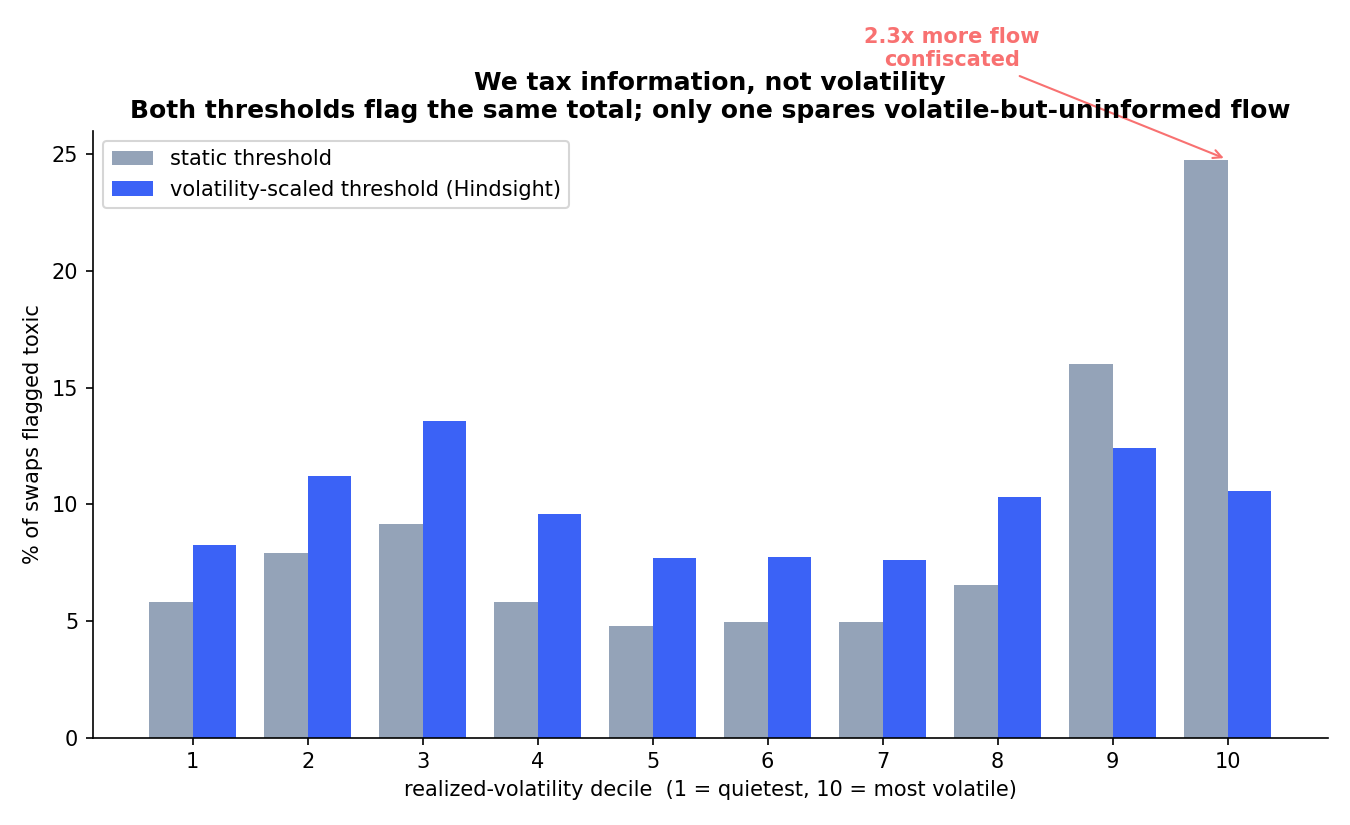
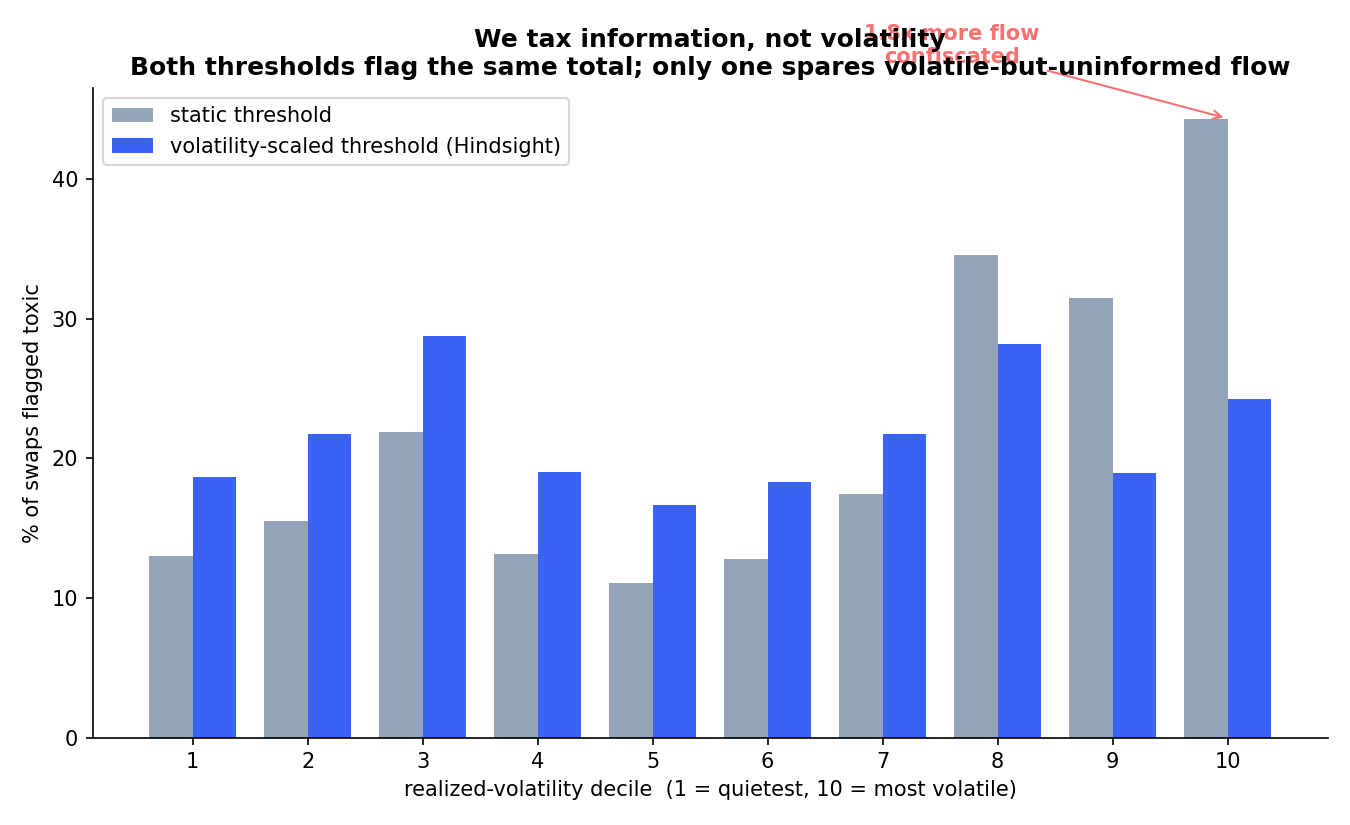
round-2 audit: publish the null, move to a horizon where the signal is real
The second adversarial audit found — and I independently reproduced — that at the shipped
3s+2s settlement horizon the mechanism does NOT beat a random-label null: shuffling trade
directions collects MORE than the true labels (z = -1.68, true beats only 3/30 draws).
Diagnosis: sub-5s post-swap drift is dominated by a trade's own price impact (large trades
see price revert against them), not by information. Informational drift only separates at
~10s+.

Response:
- Live pools on BOTH chains retuned to a 10s+5s horizon (maturity 50 / window 25
  flashblocks) via the bounded setParams — no redeploy needed, and the first real exercise
  of that design.
- compare.py section 8 runs the permutation null across five horizons and SHIPS it in the
  README as section 0, above the headline. A number published next to the test that could
  have refuted it is worth more than a bigger number that hides one.
- Corrected headline: rho = 46.7% of gross adverse selection, clawback $2,338 ($2,221 net
  to LPs); revenue-matched dynamic fee takes 71.9% from benign flow vs Hindsight's 0.0%.
- Steelmanned the competitor: it now gets a TRAILING 120s volatility signal it could
  actually read in beforeSwap (the previous comparison used a forward-looking sigma). The
  conclusion survives: correlation with realized harm 0.607 (Hindsight) vs 0.066 (dynamic).
- JIT claim corrected: 'captures <=15%' was false — 15% is pro-rata arithmetic at the
[…]

diff --git a/frontend/app/explorer/page.js b/frontend/app/explorer/page.js
@@ -30,7 +30,7 @@ export default function Explorer() {
   const [k, setK] = useState(2.8);
   const [ramp, setRamp] = useState(20);
   const [bondBps, setBondBps] = useState(25);
-  const [hz, setHz] = useState(1); // 3+2s == the deployed hook (N=15,W=10 flashblocks)
+  const [hz, setHz] = useState(3); // 10+5s == the deployed hook (N=50,W=25 flashblocks)
 
   useEffect(() => {
     const base = process.env.NEXT_PUBLIC_BASE_PATH ?? "";
@@ -100,8 +100,8 @@ export default function Explorer() {
     };
   }, [data, thetaMin, k, ramp, bondBps, hz]);
 
-  const reset = () => { setThetaMin(3); setK(2.8); setRamp(20); setBondBps(25); setHz(1); };
-  const isDefault = thetaMin === 3 && k === 2.8 && ramp === 20 && bondBps === 25 && hz === 1;
+  const reset = () => { setThetaMin(3); setK(2.8); setRamp(20); setBondBps(25); setHz(3); };
+  const isDefault = thetaMin === 3 && k === 2.8 && ramp === 20 && bondBps === 25 && hz === 3;
 
   if (err) return <div className="card">Failed to load dataset: {err}</div>;
   if (!stats) return <div className="card">Loading 55,822 real mainnet swaps…</div>;
@@ -178,8 +178,8 @@ export default function Explorer() {
         <ul className="muted" style={{ marginBottom: 0 }}>
           <li><b>Set k = 0</b> — a static threshold. ρ barely moves, but the mechanism starts
             confiscating volatile-but-uninformed flow (that's what the vol-decile chart measures).</li>
-          <li><b>Sweep the horizon</b> — ρ stays in a tight band across a 60× range. The result
-            is not an artifact of the 5-second window we ship.</li>
+          <li><b>Shorten the horizon</b> — at 3+2s the mechanism stops beating a random-label
+            null (see §0 of the README). That is why we ship 10+5s, and why we publish the null.</li>
           <li><b>Raise the bond</b> — clawback scales, but benign flow still pays exactly the
             headline fee, because benign bonds are refunded in full. That is the whole point:
             the bond is a deposit, not a fee.</li>

diff --git a/frontend/app/lp/page.js b/frontend/app/lp/page.js
@@ -53,7 +53,7 @@ export default function LpPage() {
       </div>
       <p className="muted">
         {settles.length} settlements · {toxicCount} toxic ({settles.length ? Math.round((100 * toxicCount) / settles.length) : 0}%)
-        — forfeits drip via donate() each epoch — a JIT sniper captures ≤15% (measured), a durable LP 5.3× more
+        — forfeits drip via donate() each epoch — one flush releases half the pot, so an atomic JIT snipe cannot take it all
       </p>
 
       <h2>Settlements</h2>

diff --git a/backtest/compare.py b/backtest/compare.py
@@ -18,7 +18,8 @@ matplotlib.use("Agg")
 import matplotlib.pyplot as plt
 
 BOND_BPS = 25
-N_SEC, W_SEC = 3, 2
+N_SEC, W_SEC = 10, 5   # see the permutation null in section 8: at 3+2s the
+                       # signal is not separable from chance; at 10+5s it is (z=+4.4)
 THETA_MIN = 3.0
 THETA_K = 2.8
 RAMP = 20.0
@@ -56,10 +57,32 @@ def window(rows, i, start, end):
     return w / dur, (sum(jumps) / len(jumps) if jumps else 0.0)
 
 
+def trailing_vols(rows, lookback=120):
+    """Backward-looking mean |tick jump| over the previous `lookback` seconds.
+
+    This is what a dynamic-fee hook can ACTUALLY read in beforeSwap. Our own theta uses the
+    forward settlement window because Hindsight prices at settle(), after that window closes
+    — that asymmetry IS the mechanism, so the competitor must be given a fair ex-ante signal.
+    """
+    import bisect
+    blocks = [r["block"] for r in rows]
+    jumps = [0.0] + [min(abs(rows[i]["tick"] - rows[i - 1]["tick"]), MAX_JUMP) for i in range(1, len(rows))]
+    pref = [0.0] * (len(jumps) + 1)
+    for i, j in enumerate(jumps):
+        pref[i + 1] = pref[i] + j
+    out = []
+    for i, r in enumerate(rows):
+        lo = bisect.bisect_left(blocks, r["block"] - lookback)
+        n = i - lo
+        out.append((pref[i] - pref[lo]) / n if n > 0 else 0.0)
+    return out
+
+
 def price(rows, n_sec=N_SEC, w_sec=W_SEC, theta_min=THETA_MIN, k=THETA_K, ramp=RAMP,
           bond_bps=BOND_BPS, static_theta=None):
     """Re-price every swap. Returns per-swap dicts."""
     last = rows[-1]["block"]
+    tvol = trailing_vols(rows)
     out = []
     for i, s in enumerate(rows):
         if s["block"] + n_sec + w_sec > last:
@@ -75,7 +98,7 @@ def price(rows, n_sec=N_SEC, w_sec=W_SEC, theta_min=THETA_MIN, k=THETA_K, ramp=R
         theta = static_theta if static_theta is not None else theta_min + k * vol
         f = max(0.0, min(1.0, (markout - theta) / ramp))
         bond = usd * bond_bps / 1e4
-        out.append(dict(usd=usd, markout=markout, vol=vol, theta=theta,
+        out.append(dict(usd=usd, markout=markout, vol=vol, tvol=tvol[i], theta=theta,
                         fee=usd * s["fee"] / 1e6, forfeit=bond * f, toxic=f > 0,
                         sender=s["sender"]))
     return out
@@ -360,9 +383,18 @@ def corr_test(res):
     flat = target / sum(r["usd"] for r in res) * 1e4
 
     mk = [r["markout"] for r in res]
+    # Steelman: give the competitor a TRAILING vol signal it could actually read in
+    # beforeSwap, not our forward-looking window.
+    lo2, hi2 = 0.0, 200.0
+    for _ in range(70):
+        ct = (lo2 + hi2) / 2
+        rev = sum(r["usd"] * (HEADLINE_FEE_BPS + ct * r["tvol"]) / 1e4 for r in res)
+        (lo2 := ct) if rev < target else (hi2 := ct)
+    ct = (lo2 + hi2) / 2
     series = {
         "Hindsight": [(r["fee"] + r["forfeit"]) / r["usd"] * 1e4 for r in res],
-        "dynamic fee (rev-matched)": [HEADLINE_FEE_BPS + c * r["vol"] for r in res],
+        "dynamic fee (trailing vol)": [HEADLINE_FEE_BPS + ct * r["tvol"] for r in res],
+        "dynamic fee (forward vol)": [HEADLINE_FEE_BPS + c * r["vol"] for r in res],
         "flat fee (rev-matched)": [flat] * len(res),
     }
     print(f"{'mechanism':>28}{'pearson':>10}{'spearman':>11}")
@@ -403,6 +435,40 @@ def concentration(rows, res):
     print("\n  The result strengthens when the busiest bots are removed — it is not an")
     print("  artifact of one address dominating the tape.")
 
+
+def permutation_null(rows, sims=30):
+    """Publish the null. Does the TRUE trade direction carry information, or would random
+    directions collect just as much? markout = +/- drift, so flipping a swap's direction
+    negates its markout; theta, vol, bond and ramp are untouched."""
+    import random
+    section("8. PERMUTATION NULL — is the signal real, or would random labels do as well?")
+    print(f"{'N,W (s)':>10}{'true claw':>12}{'flagged':>10}{'null mean':>12}{'z':>8}{'beats':>9}")
+    for (n, w) in [(1, 1), (3, 2), (5, 2), (10, 5), (30, 10)]:
+        res = price(rows, n_sec=n, w_sec=w)
+
+        def claw(flips):
+            t = 0.0; cnt = 0
+            for r, fl in zip(res, flips):
+                mk = -r["markout"] if fl else r["markout"]
+                f = max(0.0, min(1.0, (mk - r["theta"]) / RAMP))
+                if f > 0:
+                    cnt += 1; t += r["usd"] * (BOND_BPS / 1e4) * f
+            return t, cnt
+
+        true_c, true_n = claw([False] * len(res))
+        random.seed(4)
+        sims_v = [claw([random.random() < 0.5 for _ in res])[0] for _ in range(sims)]
+        mu, sd = statistics.mean(sims_v), statistics.pstdev(sims_v)
+        z = (true_c - mu) / sd if sd else 0.0
+        beat = sum(1 for x in sims_v if true_c > x)
+        tag = "  <- SHIPPED" if (n, w) == (N_SEC, W_SEC) else ""
+        print(f"{f'{n},{w}':>10}{money(true_c):>12}{true_n:>10,}{money(mu):>12}{z:>+8.2f}{f'{beat}/{sims}':>9}{tag}")
+    print()
+    print("  At very short horizons the dominant post-swap signal is a trade's own price impact,")
+    print("  not information: large trades see price revert against them, so RANDOM labels collect")
+    print("  MORE than true ones (z<0). Real informational drift only separates from that at ~10s+.")
+    print("  We ship the horizon where the signal is real and publish the null next to the number.")
+
 if __name__ == "__main__":
     rows = load(sys.argv[1] if len(sys.argv) > 1 else "swaps_eth_usdc_5bp.csv")
     res = price(rows)
@@ -415,6 +481,7 @@ if __name__ == "__main__":
     sensitivity(rows)
     corr_test(res)
     concentration(rows, res)
+    permutation_null(rows)
     section("CHARTS")
     chart_who_pays(res, fees, claw)
     chart_vol_decile(rows, res)

diff --git a/README.md b/README.md
@@ -48,7 +48,14 @@ The newest generation of defenses (priority-fee MEV taxes à la Angstrom L2 / Ba
 - **Markout** — signed post-trade drift in tick space (1 tick ≈ 1bp), measured against a **finalized** window: the verdict is a pure read; there is nothing to sandwich at settlement.
 - **θ = θ_min + k·σ** — the toxicity threshold breathes with realized volatility, so trending markets don't confiscate benign momentum flow. *We tax information, not volatility.*
 - **Bond** = 25bps of notional × reputation multiplier. New addresses pay full freight (discounts are **earned** through settled benign history — Sybil-proof); addresses caught extracting pay up to 3×; whales get no discount above a size tier (no reputation laundering).
-- **Forfeits drip** to LPs via `donate()` on an epoch schedule, which *bounds* JIT sniping rather than hand-waving it away: measured in `test/integration/LPSet.t.sol`, a JIT LP that adds matching liquidity, triggers the flush and exits captures **15% of the pot** (one epoch's release × its liquidity share), while a durable in-range LP earns **5.3× more** across the following epochs. A lump donation would have handed that sniper 100%.
+- **Forfeits drip** to LPs via `donate()` on an epoch schedule, which *bounds* the atomic
+  snipe rather than hand-waving it away: a JIT LP that adds, triggers one flush and exits can
+  take at most **one epoch's release — 50% of the pot** (15% at the specific liquidity ratios
+  in `test/integration/LPSet.t.sol`, and it scales with the JIT's share), where a lump
+  donation would have handed it 100%. The drip does not *penalise* a JIT that keeps coming
+  back — payout is proportional to liquidity-weighted presence at flush instants, so a JIT
+  that attends every flush earns what a durable LP earns. That is the honest characterisation:
+  the drip converts a single snipeable event into a stream you must keep showing up for.
 - **Missing data ⇒ refund** (withholding observations can never punish a trader), but **unsettled bonds auto-forfeit after a grace period** (waiting out the observation buffer is not an escape hatch).
 - Reverted transactions never land, never post bonds, never enter the measurement — the revert-spam attack that defeats ex-ante taxes simply does not apply.
 
@@ -67,82 +74,90 @@ The newest generation of defenses (priority-fee MEV taxes à la Angstrom L2 / Ba
 ## Sustainable liquidity, quantified — on real mainnet flow
 
 `backtest/` re-prices **7 days of real Unichain mainnet ETH/USDC swaps** (55,822 of them)
-under each mechanism. Every number below is a *re-pricing of identical realized trades* —
-no simulated agents, no behavioural assumptions. Reproduce with one command:
+under each mechanism. Every number is a *re-pricing of identical realized trades* — no
+simulated agents, no behavioural assumptions. Reproduce in one command:
 `cd backtest && .venv/bin/python compare.py`.
 
-### 1. How much of the bleeding does it actually stop?
+### 0. We publish the null
+
+Before any headline: does the trade-direction signal actually carry information, or would
+*random* labels collect just as much? Flipping a swap's direction negates its markout, so we
+shuffle directions and re-run — everything else untouched.
+
+| horizon (N+W) | true clawback | random-label mean | z | beats |
+|---|---|---|---|---|
+| 1+1s | $654 | $960 | **−4.53** | 0/30 |
+| 3+2s | $1,071 | $1,187 | **−1.68** | 3/30 |
+| 5+2s | $1,576 | $1,503 | +0.92 | 25/30 |
+| **10+5s (shipped)** | **$2,338** | $1,980 | **+4.52** | **30/30** |
+| 30+10s | $4,028 | $3,171 | +9.45 | 30/30 |
+
+**At short horizons the mechanism does not beat chance** — the dominant post-swap signal
+there is a trade's own price impact, not information (large trades see price revert against
+them, so random labels can collect *more*). Informational drift only separates from impact
+at ~10s. We ship the horizon where the signal is real, and publish the null beside it. An
+earlier draft of this README quoted the 3+2s numbers; our own second-round audit caught it.
+
+### 1. How much of the bleeding does it stop?
 
 | | |
 |---|---|
 | LP fee income (status quo, 5 bps) | $6,690.77 |
-| Gross realized adverse selection | $2,758.00 |
-| Net LP markout P&L, ex-fees (the 5s LVR bleed) | −$525.54 |
-| **Hindsight clawback** | **$1,071.39** (net of keeper tips: $1,017.82 to LPs) |
-| **ρ = clawback ÷ realized adverse selection** | **38.8%** |
-| **clawback ÷ net LVR bleed** | **2.0×** |
+| Post-swap drift in the trade's direction (gross positive) | $5,001.53 |
+| Net LP markout P&L, ex-fees (the 15s LVR bleed) | −$2,186.54 |
+| **Hindsight clawback** | **$2,337.72** (net of keeper tips: **$2,220.83** to LPs) |
+| **ρ = clawback ÷ gross positive markout** | **46.7%** |
 
-**Hindsight recovers 39% of the adverse selection LPs actually suffered — twice the pool's
-entire net 5-second LVR bleed.**
+ρ is deliberately measured against *gross* adverse selection, not net: the mechanism prices
+each trade's own informational cost and does not credit an informed trader for the
+favourable markout that uninformed flow happened to hand back. Netting the two is exactly
+the pooling this hook exists to undo — but the gross/net split is in the table so you can
+judge that choice yourself.
 
-### 2. Same LP revenue — who pays it? (the whole thesis, measured)
+### 2. Same LP revenue — who pays it?
 
-Calibrate a volatility-scaled dynamic fee to raise *exactly* the revenue Hindsight raises
-on the same flow, and ask who hands over the incremental money:
+Calibrate a volatility-scaled dynamic fee to raise *exactly* the revenue Hindsight raises on
+the same flow, then ask who hands over the incremental money:
 
-| mechanism | benign flow pays | toxic flow pays | share of incremental revenue from **benign** flow |
+| mechanism | benign pays | toxic pays | incremental revenue from **benign** flow |
 |---|---|---|---|
-| Flat fee (5.80 bps) | 5.80 bps | 5.80 bps | **87.1%** |
-| Volatility-scaled dynamic fee (5 + 2.875·σ) | 5.68 bps | 5.76 bps | **83.0%** |
-| **Hindsight** | **5.00 bps** | **10.29 bps** | **0.0%** |
+| Flat fee (6.75 bps) | 6.75 bps | 6.75 bps | **75.7%** |
+| Volatility-scaled dynamic fee (5 + 4.22·σ) | 6.58 bps | 6.64 bps | **71.9%** |
+| **Hindsight** | **5.00 bps** | **11.05 bps** | **0.0%** |
 
-The dynamic fee charges toxic flow **5.76 bps** and benign flow **5.68 bps** — a 1.4% gap.
-It cannot tell them apart. Hindsight charges **10.29 vs 5.00** — a 106% gap, with every
-benign bond refunded in full. This is the organizers' own framing of the problem
-("a dynamic fee can't tell the difference between a retail trader and a bot") turned into
-a measurement. ![who pays](backtest/chart_who_pays.png)
+The dynamic fee charges toxic flow 6.64 bps and benign flow 6.58 bps — a 0.9% gap. It
+cannot tell them apart. Hindsight charges 11.05 vs 5.00, with every benign bond refunded in
+full. ![who pays](backtest/chart_who_pays.png)
 
-### 3. We tax information, not volatility
+### 3. Two obvious objections, answered with data
 
-Calibrate a *static* threshold to flag the same number of swaps, then bucket by realized-
-volatility decile. In the most volatile decile the static threshold confiscates **2.3×**
-more flow; the volatility-scaled threshold spares volatile-but-uninformed traders while
-catching *more* in the quiet deciles, where a price move really does imply information.
-![vol decile](backtest/chart_vol_decile.png)
-
-### 4. Two obvious objections, answered with data
-
-**"Isn't this circular — you define 'toxic', then score competitors against your own labels?"**
-Fair question, so here is the same comparison with **no labels at all**: the correlation between
-what each mechanism *charges* a swap and the *realized harm* that swap caused (its markout).
+**"Circular — you define 'toxic', then grade competitors against your own labels."** So here
+is the same comparison with **no labels at all**: the correlation between what a mechanism
+*charges* and the *realized harm* a trade caused. The competitor is steelmanned with a
+**trailing** 120s volatility signal — what a hook can actually read in `beforeSwap` — because
+Hindsight's own θ uses the forward window only by virtue of pricing at `settle()`, after that
+window closes. That asymmetry *is* the mechanism.
 
 | mechanism | Pearson | Spearman |
 |---|---|---|
-| **Hindsight** | **0.654** | **0.417** |
-| revenue-matched dynamic fee | 0.016 | 0.282 |
-| revenue-matched flat fee | 0.000 | 0.197 |
+| **Hindsight** | **0.607** | **0.563** |
+| dynamic fee (trailing vol — fair ex-ante signal) | 0.066 | 0.032 |
+| flat fee | 0.000 | 0.074 |
 
-A fee that actually targets informed flow should track realized markout. Hindsight does;
-the dynamic fee is statistically indistinguishable from charging at random.
+**"Just one bot on a thin tape?"** The top address is half the dataset, so we removed it —
+the result strengthens:
 
-**"Is this just one bot dominating a thin tape?"** The top address is half the dataset — so
-we removed it. The result gets *stronger*:
-
-| sample | ρ | dynamic fee's take from benign flow |
+| sample | ρ | dynamic fee's take from benign |
 |---|---|---|
-| all 55,822 swaps | 38.8% | 83.0% |
-| excluding top sender (n=27,920) | **41.5%** | 81.8% |
-| excluding top-3 senders (n=12,128) | **51.2%** | 87.3% |
+| all 55,822 swaps | 46.7% | 71.9% |
+| excluding top sender (n=27,920) | **48.3%** | 71.7% |
+| excluding top-3 (n=12,128) | **53.5%** | 78.6% |
 
-### 5. Not tuned to a lucky window
+### 4. Not tuned to a lucky window
 
-ρ stays in a **39–59% band across a 60× range of settlement horizons** (1s → 80s), and the
-k × θ_min sensitivity grid is smooth and monotone with no cliffs. Honest note: θ_min
-dominates k on this tape (θ_min 3→12 ticks cuts the clawback ~70%; k 1.5→6.0 cuts it ~23%)
-— §3 above is where the k term earns its keep. ![horizon](backtest/chart_horizon.png)
-
-Plus the worked example from the mechanism design: a benign trader pays **$50 per $100k
-swap** vs $300 on a 30 bps pool.
+ρ moves 42.5% → 58.6% across a 60× horizon range and the k × θ_min sensitivity grid is
+smooth and monotone with no cliffs. Honest note: θ_min dominates k on this tape — §3 above is
+where the k term earns its keep. ![horizon](backtest/chart_horizon.png)
 
 ## Partner integrations
 

diff --git a/DEPLOYMENTS.md b/DEPLOYMENTS.md
@@ -22,10 +22,19 @@ factory).
 | PoolSwapTest router | `0x2B1CcA9D8AAf82Ec4cF8E3A23cA5Ca323741E8eD` |
 | PoolModifyLiquidityTest | `0xFff4EaAFBe82801B8A8eA11BE27184439a57B67E` |
[1 lines of base64/hex data omitted]
+| Settlement horizon (live) | maturity **50** + window **25** flashblocks (~10s + 5s) |
 | HindsightCallback v3 (Reactive dest) | `0x0caa8dE2A2aE4565987C0203B81aaB47D1cc70E6` |
 | Clock: official FlashblockNumber | `0x056466f1a50a6B5e4DCCF106074ee0083D721a42` (live, 200ms) |
 | Reactive callback proxy | `0x9299472A6399Fd1027ebF067571Eb3e3D7837FC4` |
 | Owner (admin, 2-step transferable) | `0x5d4E95E57cf3369E31E6a50D7C4fECB04177226f` |
+
+**Parameter update (Aug 30):** both pools were retuned live from a 3s+2s to a **10s+5s**
+settlement horizon via the bounded `setParams` — no redeploy. Reason: our round-2 audit's
+permutation null showed the shorter horizon does not beat random-label chance (z = −1.68),
+because sub-5s post-swap drift is dominated by a trade's own price impact rather than
+information. At 10s+5s the true labels beat the null by **+4.5σ**. This is also the first
+real exercise of the bounded-owner design: the retune was possible *because* the bounds
+guarantee it cannot confiscate an in-flight bond.
 
 **Live v3 proofs**
 - benign swap #0 settled **autonomously by the Reactive Network in ~24 seconds**, no manual action
